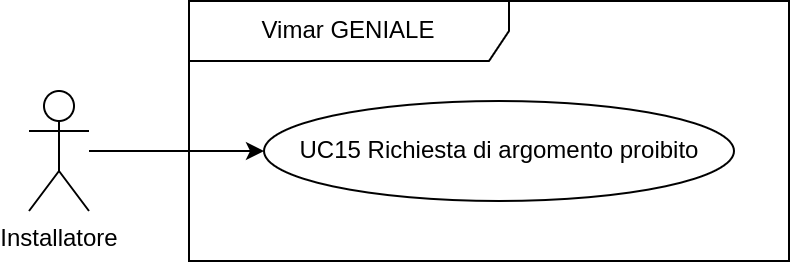
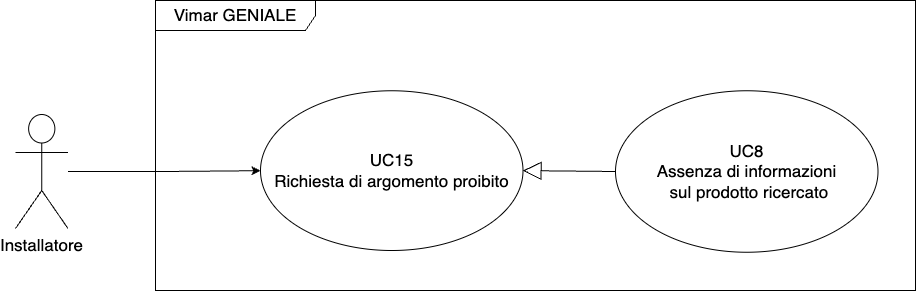
V0.0.10
Inserimento diagrammi UC, correzioni minori

diff --git a/src/2 - RTB/Analisi_dei_Requisiti/contents/casi_duso/elenco.tex b/src/2 - RTB/Analisi_dei_Requisiti/contents/casi_duso/elenco.tex
@@ -1,9 +1,4 @@
-\begin{figure}[H]
-\centering
-\includegraphics[width=0.8\textwidth]{contents/casi_duso/png/UC1.png}
-\caption{UC1 - Creazione conversazione libera}
-% \label{fig:UC1a}
-\end{figure}
+
 \uc{Creazione conversazione libera}{conv_libera}
 \begin{itemize}
     \item \textbf{Attori coinvolti}: Installatore;
@@ -19,6 +14,12 @@
     \end{enumerate}
     \item \textbf{Estensioni}: UC 2 - Raggiungimento limite di conversazioni;
 \end{itemize}
+\begin{figure}[H]
+\centering
+\includegraphics[width=0.8\textwidth]{contents/casi_duso/png/UC1.png}
+\caption{UC1 - Creazione conversazione libera}
+% \label{fig:UC1a}
+\end{figure}
 
 \uc{Raggiungimento limite di conversazioni}{limite_conv}
 \begin{itemize}
@@ -38,13 +39,13 @@
     \item L’installatore visualizza le informazioni sull’errore che si è verificato.
     \end{enumerate}
 \end{itemize}
-
 \begin{figure}[H]
 \centering
-\includegraphics[width=0.8\textwidth]{contents/casi_duso/png/UC3.png}
-\caption{UC3 - Salvataggio conversazione}
-% \label{fig:UC1a}
+\includegraphics[width=0.8\textwidth]{contents/casi_duso/png/UC2.png}
+\caption{UC2 - Raggiungimento limite di conversazioni}
 \end{figure}
+
+
 \uc{Salvataggio conversazione}{salvataggio_conv}
 \begin{itemize}
     \item \textbf{Attori coinvolti}: Installatore;
@@ -64,6 +65,12 @@
     \end{enumerate}
     \item \textbf{Estensioni}: UC 4 - Assenza di conversazioni durante il salvataggio
 \end{itemize}
+\begin{figure}[H]
+\centering
+\includegraphics[width=0.8\textwidth]{contents/casi_duso/png/UC3.png}
+\caption{UC3 - Salvataggio conversazione}
+% \label{fig:UC1a}
+\end{figure}
 
 \uc{Assenza di conversazioni durante il salvataggio}{assenza_conv}
 \begin{itemize}
@@ -84,13 +91,14 @@
     \item L’installatore visualizza le informazioni sull’errore che si è verificato.
     \end{enumerate}
 \end{itemize}
-
 \begin{figure}[H]
 \centering
-\includegraphics[width=0.8\textwidth]{contents/casi_duso/png/UC5.png}
-\caption{UC5 - Cancellazione conversazione}
+\includegraphics[width=0.8\textwidth]{contents/casi_duso/png/UC4.png}
+\caption{UC4 - Assenza di conversazioni durante il salvataggio}
 % \label{fig:UC1a}
 \end{figure}
+
+
 \uc{Cancellazione conversazione}{cancellazione_conv}
 \begin{itemize}
     \item \textbf{Attori coinvolti}: Installatore;
@@ -109,6 +117,13 @@
     \item L’installatore visualizza il messaggio di conferma dell’avvenuta cancellazione.
     \end{enumerate}
 \end{itemize}
+\begin{figure}[H]
+\centering
+\includegraphics[width=0.8\textwidth]{contents/casi_duso/png/UC5.png}
+\caption{UC5 - Cancellazione conversazione}
+% \label{fig:UC1a}
+\end{figure}
+
 
 \uc{Ricerca informazioni sui prodotti con conversazione libera}{ricerca_info_prodotti}
 \begin{itemize}
@@ -135,13 +150,13 @@
             \item UC 8 - Assenza di informazioni sul prodotto ricercato
         \end{itemize}
 \end{itemize}
-
 \begin{figure}[H]
 \centering
-\includegraphics[width=0.8\textwidth]{contents/casi_duso/png/UC7.png}
-\caption{UC7 - Superamento limite caratteri del messaggio}
-% \label{fig:UC1a}
+\includegraphics[width=0.8\textwidth]{contents/casi_duso/png/UC6.png}
+\caption{UC6 - Ricerca informazioni sui prodotti con conversazione libera}
 \end{figure}
+
+
 \uc{Superamento limite caratteri del messaggio}{superamento_limite_caratteri}
 \begin{itemize}
     \item \textbf{Attori coinvolti}: Installatore;
@@ -161,6 +176,13 @@
     \item L’installatore visualizza le informazioni sull’errore che si è verificato.
     \end{enumerate}
 \end{itemize}
+\begin{figure}[H]
+\centering
+\includegraphics[width=0.8\textwidth]{contents/casi_duso/png/UC7.png}
+\caption{UC7 - Superamento limite caratteri del messaggio}
+% \label{fig:UC1a}
+\end{figure}
+
 
 \uc{Assenza di informazioni sul prodotto ricercato}{assenza_info_prodotto}
 \begin{itemize}
@@ -170,6 +192,7 @@
         \begin{itemize}
             \item L’installatore ha accesso all’interfaccia web del sistema;
             \item L’installatore ha accesso ad una conversazione memorizzabile nel sistema;
+            \item L’installatore pone una domanda al sistema;
             \item Il sistema non è in possesso di alcuna informazione relativa al prodotto ricercato.
         \end{itemize}
     \item \textbf{Postcondizioni}: Il sistema restituisce una risposta che indica il motivo per cui si è verificato l’errore;
@@ -181,13 +204,13 @@
     \item L’installatore visualizza le informazioni sull’errore che si è verificato.
     \end{enumerate}
 \end{itemize}
-
 \begin{figure}[H]
 \centering
-\includegraphics[width=0.8\textwidth]{contents/casi_duso/png/UC9.png}
-\caption{UC9 - Visualizzazione storico dei messaggi}
-% \label{fig:UC1a}
+\includegraphics[width=0.8\textwidth]{contents/casi_duso/png/UC8.png}
+\caption{UC8 - Assenza di informazioni sul prodotto ricercato}
 \end{figure}
+
+
 \uc{Visualizzazione storico dei messaggi}{visualizzazione_storico_messaggi}
 \begin{itemize}
     \item \textbf{Attori coinvolti}: Installatore;
@@ -211,6 +234,12 @@
             \item UC 10 - Mancanza messaggi pregressi nella conversazione
         \end{itemize}
 \end{itemize}
+\begin{figure}[H]
+\centering
+\includegraphics[width=0.8\textwidth]{contents/casi_duso/png/UC9.png}
+\caption{UC9 - Visualizzazione storico dei messaggi}
+% \label{fig:UC1a}
+\end{figure}
 
 \uc{Mancanza messaggi pregressi nella conversazione}{mancanza_messaggi_pregressi}
 \begin{itemize}
@@ -231,13 +260,14 @@
     \item L’installatore visualizza il messaggio che indica l’assenza di messaggi pregressi.
     \end{enumerate}
 \end{itemize}
-
 \begin{figure}[H]
 \centering
-\includegraphics[width=0.8\textwidth]{contents/casi_duso/png/UC11.png}
-\caption{UC11 - Fornitura di feedback sulla risposta del sistema ad interrogazione}
+\includegraphics[width=0.8\textwidth]{contents/casi_duso/png/UC10.png}
+\caption{UC10 - Mancanza messaggi pregressi nella conversazione}
 % \label{fig:UC1a}
 \end{figure}
+
+
 \uc{Fornitura di feedback sulla risposta del sistema ad interrogazione}{fornitura_feedback}
 \begin{itemize}
     \item \textbf{Attori coinvolti}: Installatore;
@@ -285,13 +315,6 @@
     \end{enumerate}
 \end{itemize}
 
-\begin{figure}[H]
-\centering
-\includegraphics[width=0.8\textwidth]{contents/casi_duso/png/UC11.2.png}
-\caption{UC11.2 - Fornitura di feedback negativo sulla risposta del sistema ad inter-
-rogazione}
-% \label{fig:UC1a}
-\end{figure}
 \subuc{Fornitura di feedback negativo sulla risposta del sistema ad interrogazione}{feedback_negativo}
 \begin{itemize}
     \item \textbf{Attori coinvolti}: Installatore;
@@ -312,6 +335,12 @@ rogazione}
     \item Il sistema registra il feedback ricevuto dall’installatore.
     \end{enumerate}
 \end{itemize}
+\begin{figure}[H]
+\centering
+\includegraphics[width=0.8\textwidth]{contents/casi_duso/png/UC11.png}
+\caption{UC11 - Fornitura di feedback sulla risposta del sistema ad interrogazione}
+% \label{fig:UC1a}
+\end{figure}
 
 \uc{Accesso al cruscotto informativo}{accesso_cruscotto}
 \begin{itemize}
@@ -337,12 +366,7 @@ rogazione}
         \end{itemize}
 \end{itemize}
 
-\begin{figure}[H]
-\centering
-\includegraphics[width=0.8\textwidth]{contents/casi_duso/png/UC12.1.png}
-\caption{UC12.1 - Inserimento username}
-% \label{fig:UC1a}
-\end{figure}
+
 \subuc{Inserimento username e password}{inserimento_username}
 \begin{itemize}
     \item \textbf{Attori coinvolti}: Amministratore;
@@ -361,12 +385,7 @@ rogazione}
     \end{enumerate}
 \end{itemize}
 
-\begin{figure}[H]
-\centering
-\includegraphics[width=0.8\textwidth]{contents/casi_duso/png/UC13.png}
-\caption{UC13 - Inserimento username o password errati}
-% \label{fig:UC1a}
-\end{figure}
+
 \uc{Inserimento username o password errati}{inserimento_cred_errati}
 \begin{itemize}
     \item \textbf{Attori coinvolti}: Amministratore;
@@ -386,6 +405,13 @@ rogazione}
     \item L’amministratore visualizza le informazioni sull’errore che si è verificato.
     \end{enumerate}
 \end{itemize}
+
+\begin{figure}[H]
+\centering
+\includegraphics[width=0.8\textwidth]{contents/casi_duso/png/UC12.png}
+\caption{UC12, UC12.1 UC13 - Accesso al cruscotto informativo }
+% \label{fig:UC1a}
+\end{figure}
 
 \uc{Visualizzazione informazioni sulla dashboard}{visualizzazione_info_dashboard}
 \begin{itemize}
@@ -561,29 +587,37 @@ rogazione}
     \item \textbf{Inclusioni}: UC 12 - Accesso al cruscotto informativo
     \item \textbf{Generalizzazioni}: UC 14 - Visualizzazione informazioni sulla dashboard
 \end{itemize}
+\begin{figure}[H]
+\centering
+\includegraphics[width=0.8\textwidth]{contents/casi_duso/png/UC14.png}
+\caption{UC14 - Visualizzazione informazioni dashboard}
+% \label{fig:UC1a}
+\end{figure}
 
+
+\uc{Richiesta di argomento proibito}{argomento_proibito}
+\begin{itemize}
+    \item \textbf{Attori coinvolti}: Installatore;
+    \item \textbf{Descrizione}: L’installatore richiede argomenti proibiti al sistema (e.g. politica, finanza, pornografia, ...);
+    \item \textbf{Precondizioni}: 
+        \begin{itemize}
+            \item L’installatore ha accesso all’interfaccia web del sistema;
+            \item L’installatore ha accesso ad una conversazione memorizzabile nel sistema;
+            \item La domanda posta non riguarda argomenti proibiti.
+        \end{itemize}
+    \item \textbf{Postcondizioni}: Il sistema restituisce una risposta che indica il motivo per cui si è verificato l’errore;
+    \item \textbf{Scenario principale}:
+    \begin{enumerate}
+    \item L’installatore accede all’interfaccia web di Vimar GENIALE;
+    \item Inserisce una domanda inconsistente, che non ha a che vedere con prodotti VIMAR;
+    \item Il sistema elabora la richiesta e fornisce una risposta che spiega la causa dell'errore riscontrato;
+    \item L’installatore visualizza le informazioni sull’errore che si è verificato;
+    \end{enumerate}
+     \item \textbf{Generalizzazioni}: UC 8 - Assenza di informazioni sul prodotto ricercato.
+\end{itemize}
 \begin{figure}[H]
 \centering
 \includegraphics[width=0.8\textwidth]{contents/casi_duso/png/UC15.png}
 \caption{UC15 - Richiesta di argomento proibito}
 % \label{fig:UC1a}
 \end{figure}
-\uc{Richiesta di argomento proibito}{argomento_proibito}
-\begin{itemize}
-    \item \textbf{Attori coinvolti}: Installatore;
-    \item \textbf{Descrizione}: L’installatore richiede argomenti proibiti al sistema (es. interrogazioni che non riguardano i prodotti VIMAR);
-    \item \textbf{Precondizioni}: 
-        \begin{itemize}
-            \item L’installatore ha accesso all’interfaccia web del sistema;
-            \item L’installatore ha accesso ad una conversazione memorizzabile nel sistema;
-            \item La domanda posta non riguarda VIMAR.
-        \end{itemize}
-    \item \textbf{Postcondizioni}: Il sistema restituisce una risposta che indica il motivo per cui si è verificato l’errore;
-    \item \textbf{Scenario principale}:
-    \begin{enumerate}
-    \item L’installatore accede all’interfaccia web di Vimar GENIALE;
-    \item Inserisce una domanda inconsistente, che non ha a che vedere con VIMAR;
-    \item Il sistema elabora la richiesta e fornisce una risposta che spiega la causa dell'errore riscontrato;
-    \item L’installatore visualizza le informazioni sull’errore che si è verificato.
-    \end{enumerate}
-\end{itemize}

diff --git a/src/2 - RTB/Analisi_dei_Requisiti/contents/versioning.tex b/src/2 - RTB/Analisi_dei_Requisiti/contents/versioning.tex
@@ -6,11 +6,13 @@
         \hline
         & & & & \\
         \hline
+        0.0.10 & 2024-12-1o & Derek Gusatto & Analista & Inserimento diagrammi UC 1, 4, 6, 8, 10, 11, 12, 14, 15 \\
+        \hline
         0.0.9 & 2024-12-10 & Tommaso Zocche & Analista & Scrittura requisiti funzionali da RF1 a RF6 e requisiti di qualità da RQ1 a RQ3 \\
         \hline
         0.0.8 & 2024-12-09 & Tommaso Zocche & Analista & Inserimento diagrammi UC 1, 3, 5, 7, 9, 11, 11.2, 12.1, 13, 15 \\
         \hline
-        0.0.7 & 2024-12-05 & Derek Gusatto & Analista & Correzioni \\
+        0.0.7 & 2024-12-05 & Derek Gusatto & Analista & Correzioni UC 4, 6, 12, 15 \\
         \hline
         0.0.6 & 2024-11-30 & Derek Gusatto & Analista & Importazione e numerazione UC \\
         \hline

diff --git a/src/2 - RTB/Analisi_dei_Requisiti/contents/tracciamento_requisiti.tex b/src/2 - RTB/Analisi_dei_Requisiti/contents/tracciamento_requisiti.tex
@@ -12,6 +12,7 @@
           Interno & R-XXX-X-X \\
           \hline
     \end{tabular}
+     \caption{Requisiti}
 \end{table}
 \subsection{Riepilogo}
 \begin{table}[H]
@@ -31,5 +32,6 @@
           \textbf{Vincolo} & 00 & 00 & 00\\
           \hline
     \end{tabular}
+    \caption{Requisiti per tipologia}
 \end{table}
 \subsection{Conclusioni}
